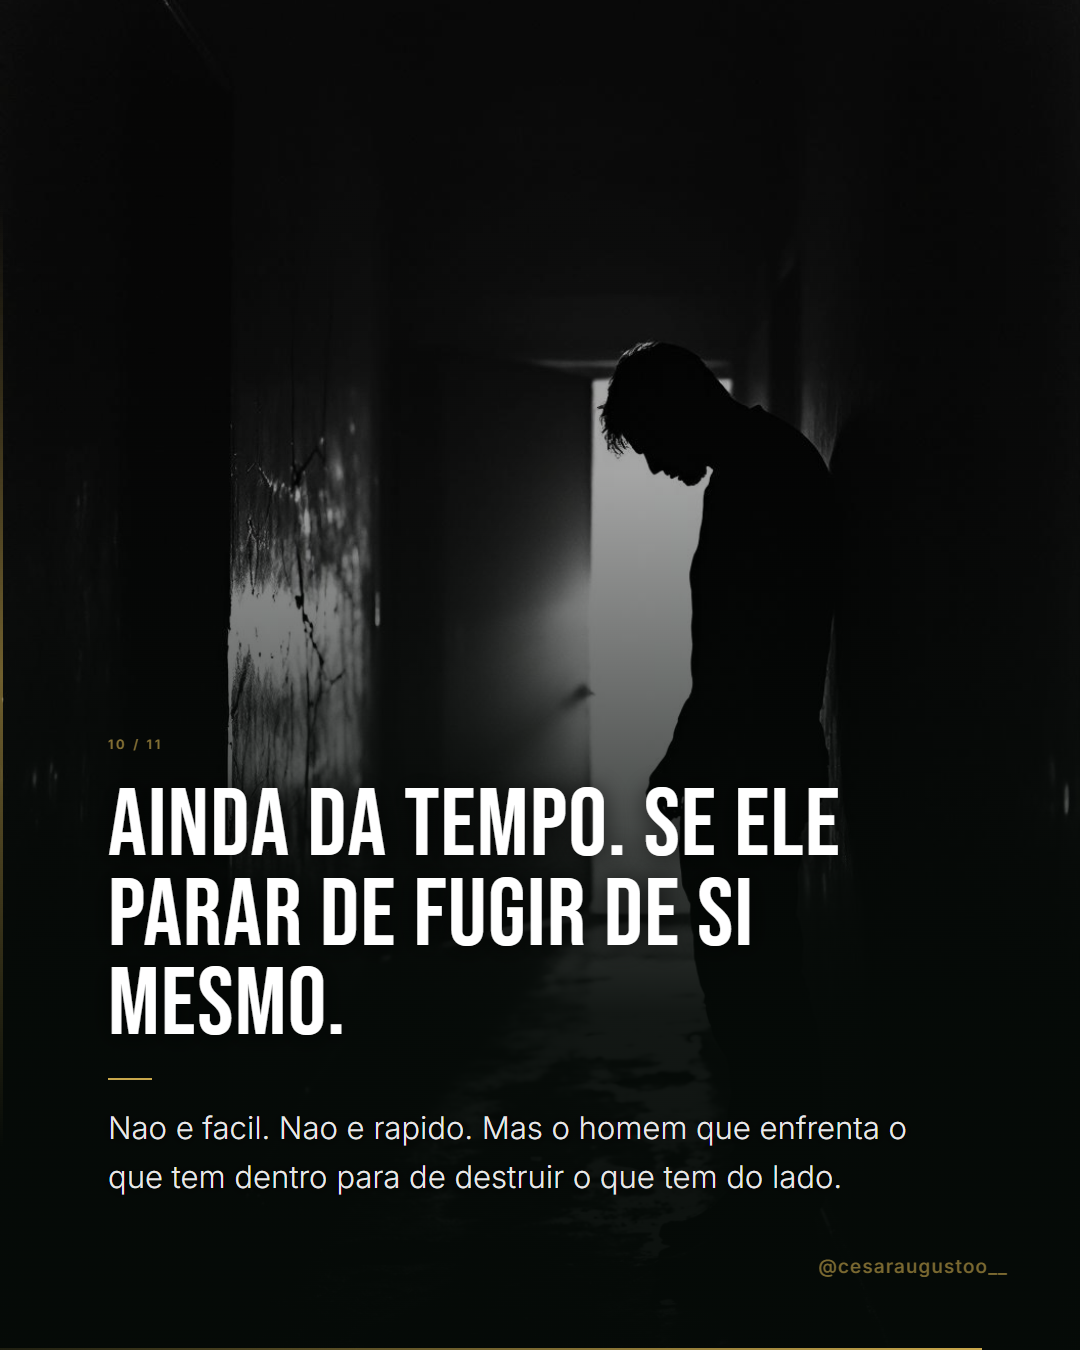
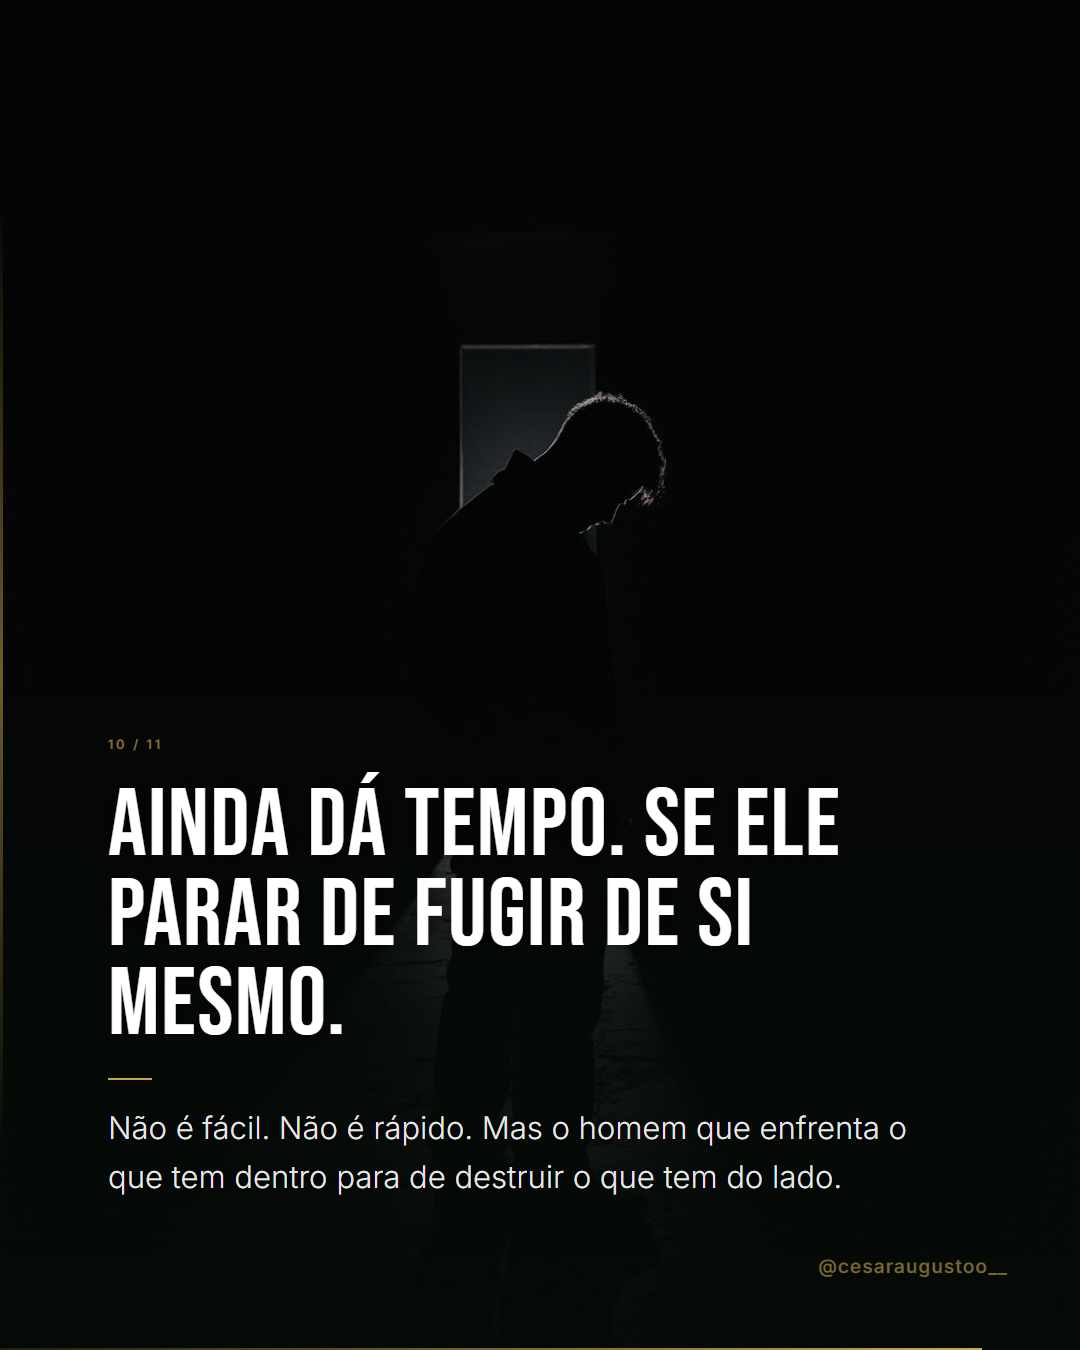
fix: ego-fragil v5 — fraco (não frágil), acentos corrigidos, slide 5 sem culpar esposa

diff --git a/carrosseis/index.html b/carrosseis/index.html
@@ -107,11 +107,11 @@ Grupo VIP aberto. Link na bio.
   </div>
   <div class="legenda-box">
     <div class="legenda-label">Legenda do post</div>
-    <textarea class="legenda-text" id="leg-ego-fragil" readonly>O homem que traiu não era forte. Era frágil.
+    <textarea class="legenda-text" id="leg-ego-fragil" readonly>O homem que traiu não era forte. Era fraco.
 
-Não foi tesão. Não foi falta de amor. Foi o ego de um homem que não se suportava dentro de casa, e usou outra pessoa para se sentir inteiro.
+Não foi tesão. Não foi falta de amor. Foi o ego de um homem que não se suportava. Que usou outra pessoa para se sentir inteiro por um momento.
 
-Ego frágil não é fraqueza de caráter. É uma ferida que ninguém ensinou a tratar. O homem que explode por qualquer coisa, que precisa ganhar toda discussão, que sumiu emocionalmente bem antes de trair, não é um monstro. É alguém que nunca aprendeu a lidar com o que sente.
+Ego fraco não é fraqueza de caráter. É uma ferida que ninguém ensinou a tratar. O homem que explode por qualquer coisa, que precisa ganhar toda discussão, que sumiu emocionalmente bem antes de trair, não é um monstro. É alguém que nunca aprendeu a lidar com o que sente.
 
 E enquanto ele não entender isso, vai continuar destruindo o que mais ama sem saber por que.
 
